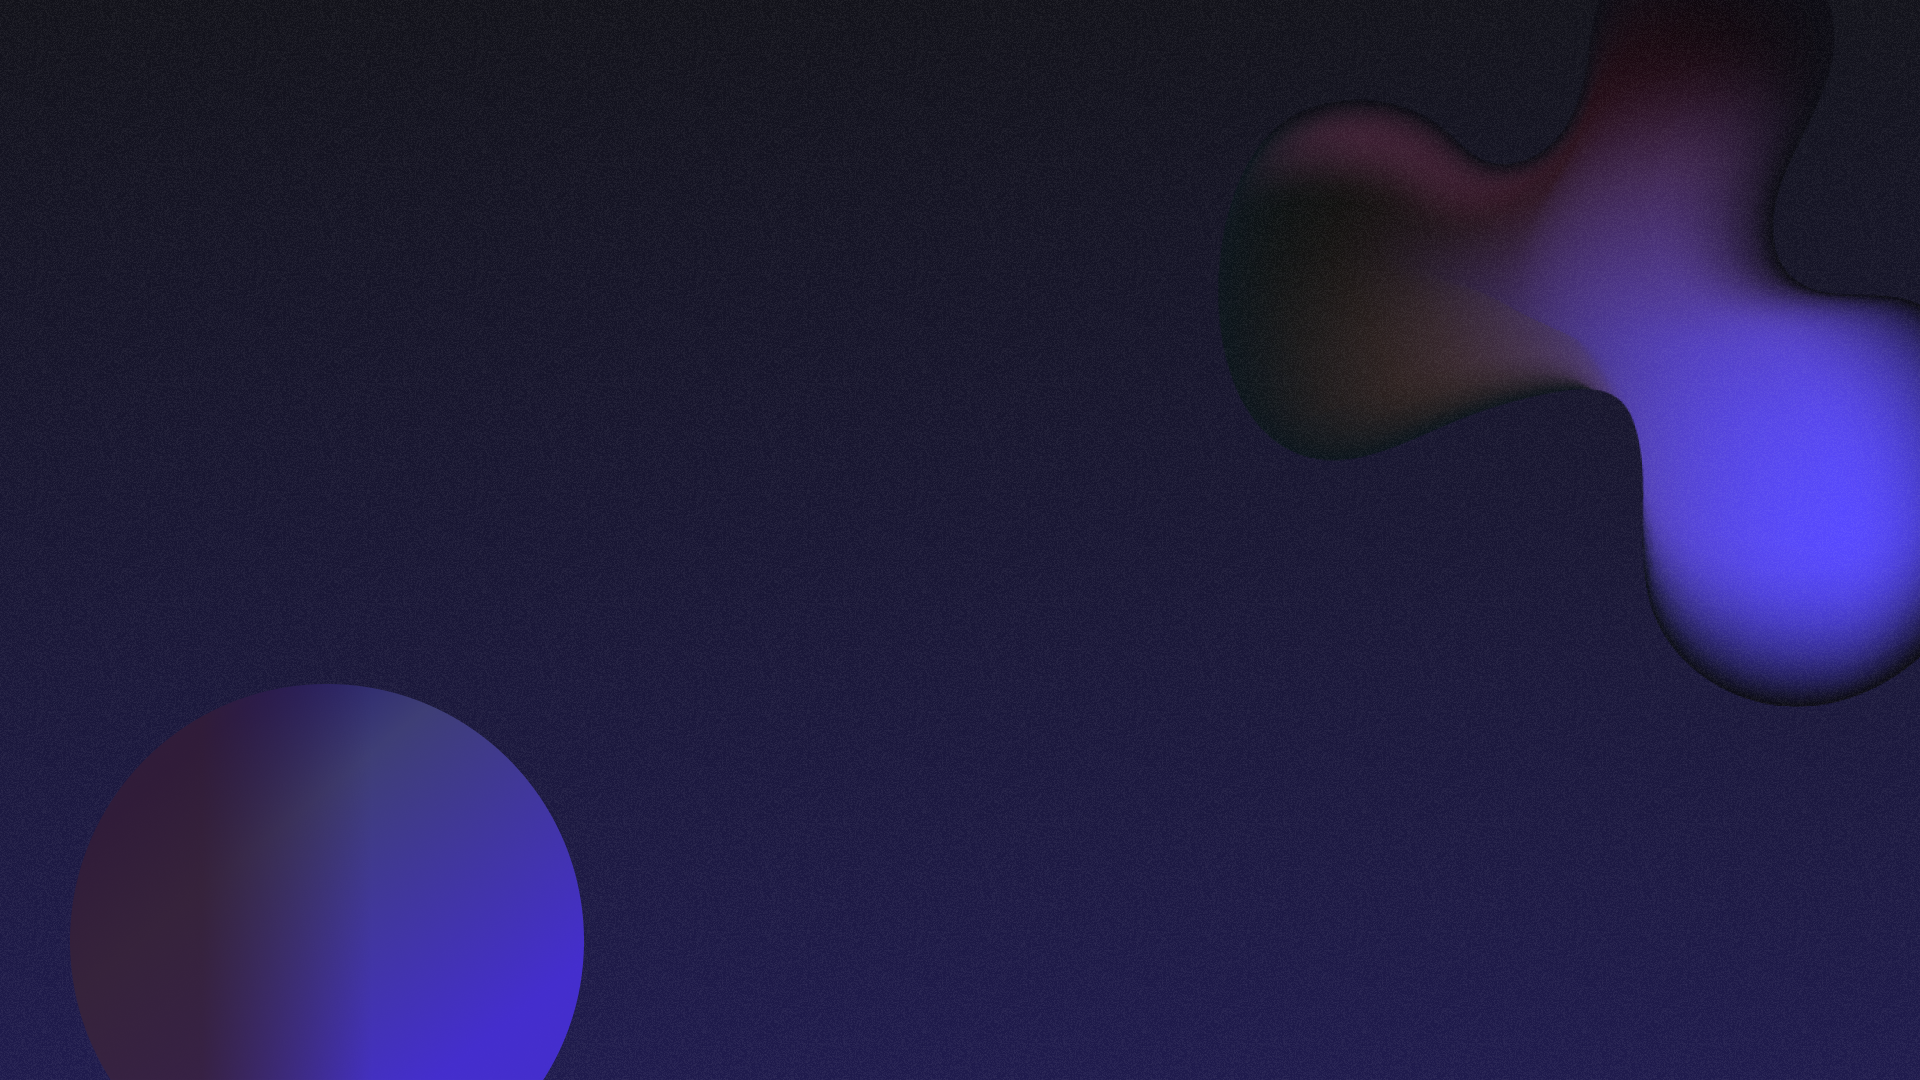
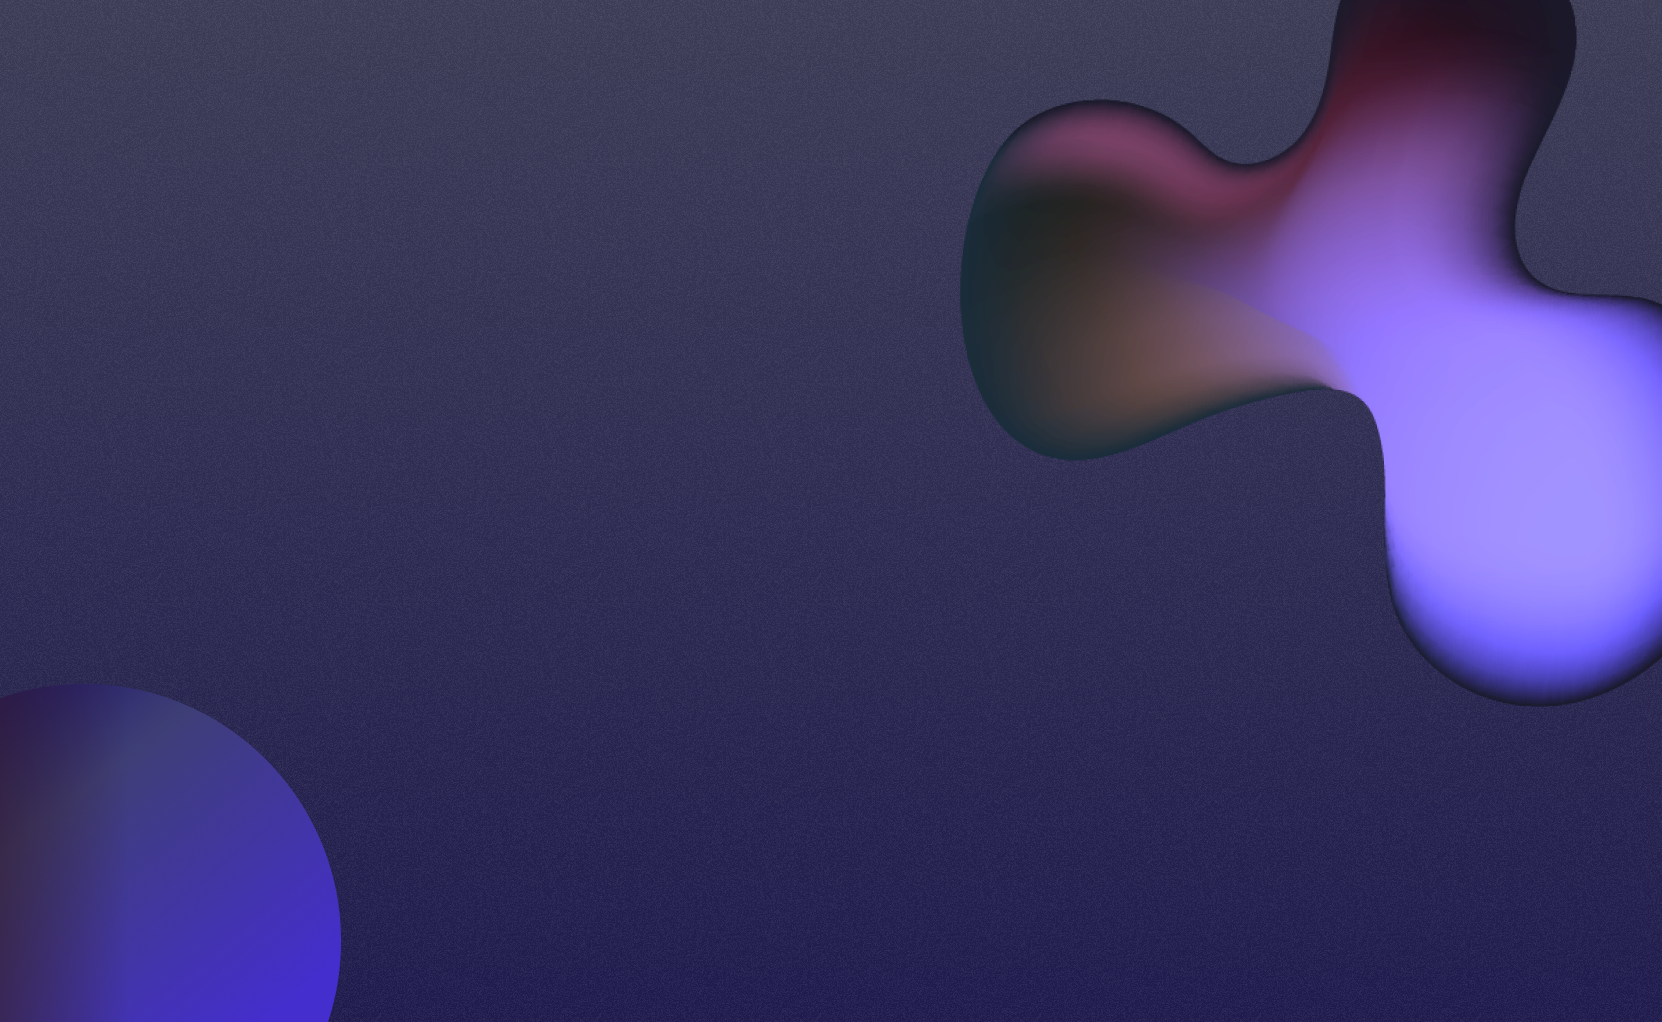
fix: some ui

diff --git a/memoryswap/packages/uikit/src/theme/colors.ts b/memoryswap/packages/uikit/src/theme/colors.ts
@@ -21,11 +21,11 @@ export const additionalColors = {
 export const lightColors: Colors = {
   ...baseColors,
   ...additionalColors,
-  backgroundNav:"#FFFFFF",
+  backgroundNav:"#E1EFFF",
   background: "#FAF9FA",
   backgroundDisabled: "#E9EAEB",
-  backgroundAlt: "#FFFFFF",
-  backgroundAlt2: "rgba(255, 255, 255, 0.7)",
+  backgroundAlt: "rgba(250, 252, 254, 0.7)",
+  backgroundAlt2: "#F1FBFF",
   cardBorder: "#E7E3EB",
   contrast: "#191326",
   dropdown: "#F6F6F6",
@@ -52,12 +52,12 @@ export const lightColors: Colors = {
 export const darkColors: Colors = {
   ...baseColors,
   ...additionalColors,
-  backgroundNav:"#0C0C14",
+  backgroundNav:"#3C3C56",
   secondary: "#9A6AFF",
   background: "#08060B",
   backgroundDisabled: "#3c3742",
-  backgroundAlt: "#1D1D2F",
-  backgroundAlt2: "rgba(39, 38, 44, 0.7)",
+  backgroundAlt: "#37376F",
+  backgroundAlt2: "#3A3A84",
   cardBorder: "#383241",
   contrast: "#FFFFFF",
   dropdown: "#1E1D20",

diff --git a/memoryswap/packages/uikit/src/widgets/Menu/Accordion.tsx b/memoryswap/packages/uikit/src/widgets/Menu/Accordion.tsx
@@ -23,7 +23,7 @@ const AccordionContent = styled.div<{ isOpen: boolean; isPushed: boolean; maxHei
   max-height: ${({ isOpen, maxHeight }) => (isOpen ? `${maxHeight}px` : 0)};
   transition: max-height 0.3s ease-out;
   overflow: hidden;
-  border-color: ${({ isOpen, isPushed }) => (isOpen && isPushed ? "rgba(133, 133, 133, 0.1)" : "transparent")};
+  border-color: ${({ isOpen, isPushed,theme }) => (isOpen && isPushed ? "rgba(133, 133, 133, 0.1)" : "transparent")};
   border-style: solid;
   border-width: 1px;
 `;

diff --git a/memoryswap/packages/uikit/src/widgets/Menu/theme.ts b/memoryswap/packages/uikit/src/widgets/Menu/theme.ts
@@ -1,13 +1,16 @@
 import { darkColors, lightColors } from "../../theme/colors";
 
 export interface NavThemeType {
+  topbar: string;
   background: string;
 }
 
 export const light: NavThemeType = {
+  topbar: '#B7D4F4',
   background: lightColors.backgroundNav,
 };
 
 export const dark: NavThemeType = {
+  topbar:'#37376E',
   background: darkColors.backgroundNav,
 };

diff --git a/memoryswap/packages/uikit/src/widgets/Menu/Menu.tsx b/memoryswap/packages/uikit/src/widgets/Menu/Menu.tsx
@@ -29,7 +29,7 @@ const StyledNav = styled.nav`
   align-items: center;
   width: 100%;
   height: ${MENU_HEIGHT}px;
-  background-color: ${({ theme }) => theme.nav.background};
+  background-color: ${({ theme }) => theme.nav.topbar};
   border-bottom: 1px solid ${({ theme }) => theme.colors.cardBorder};
   transform: translate3d(0, 0, 0);
 
